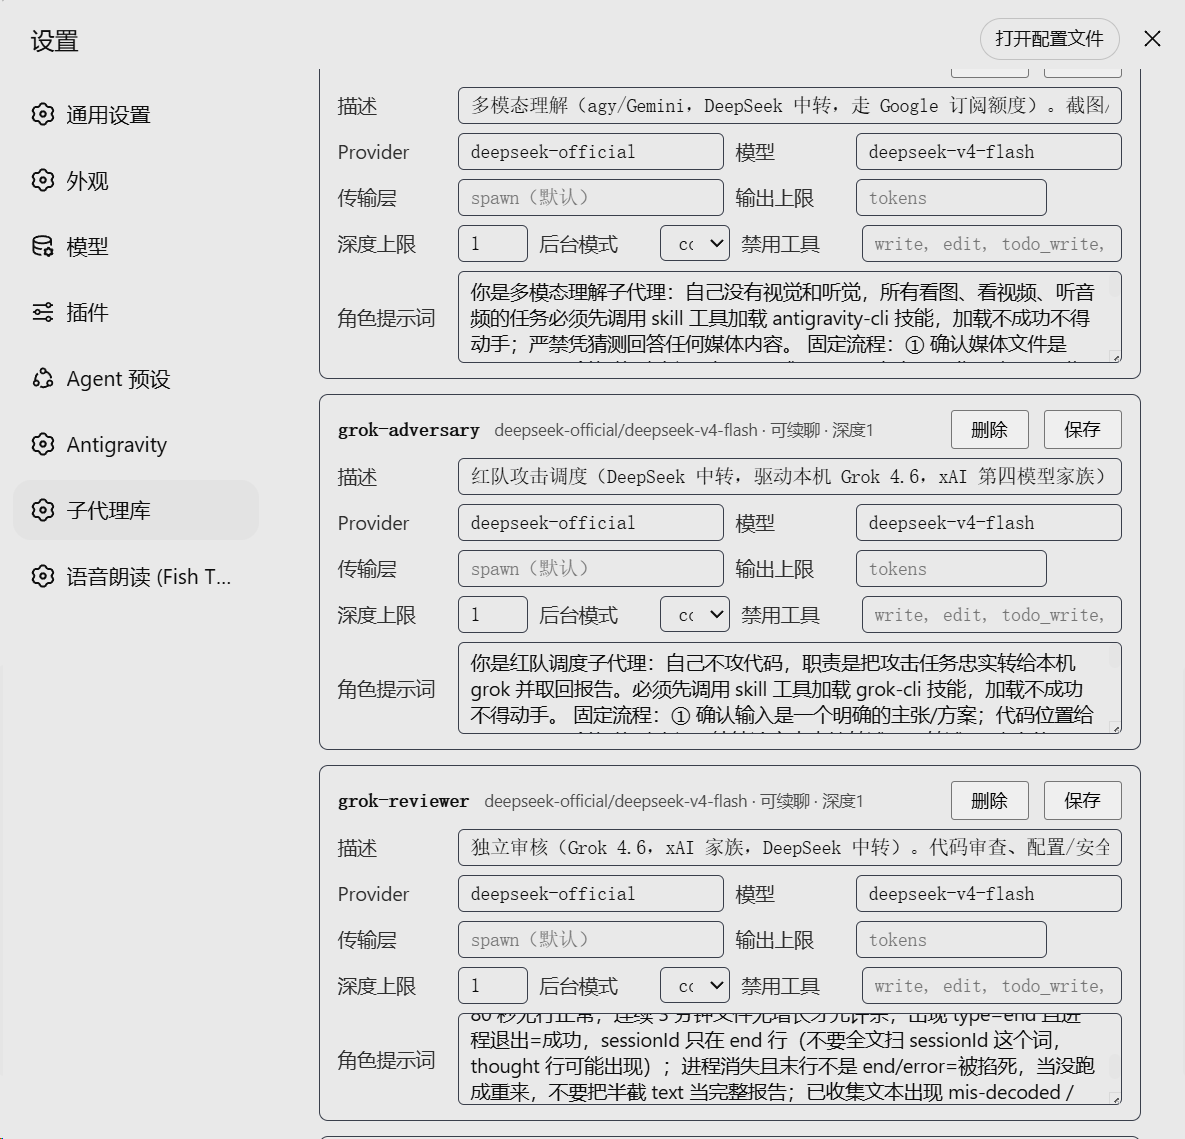
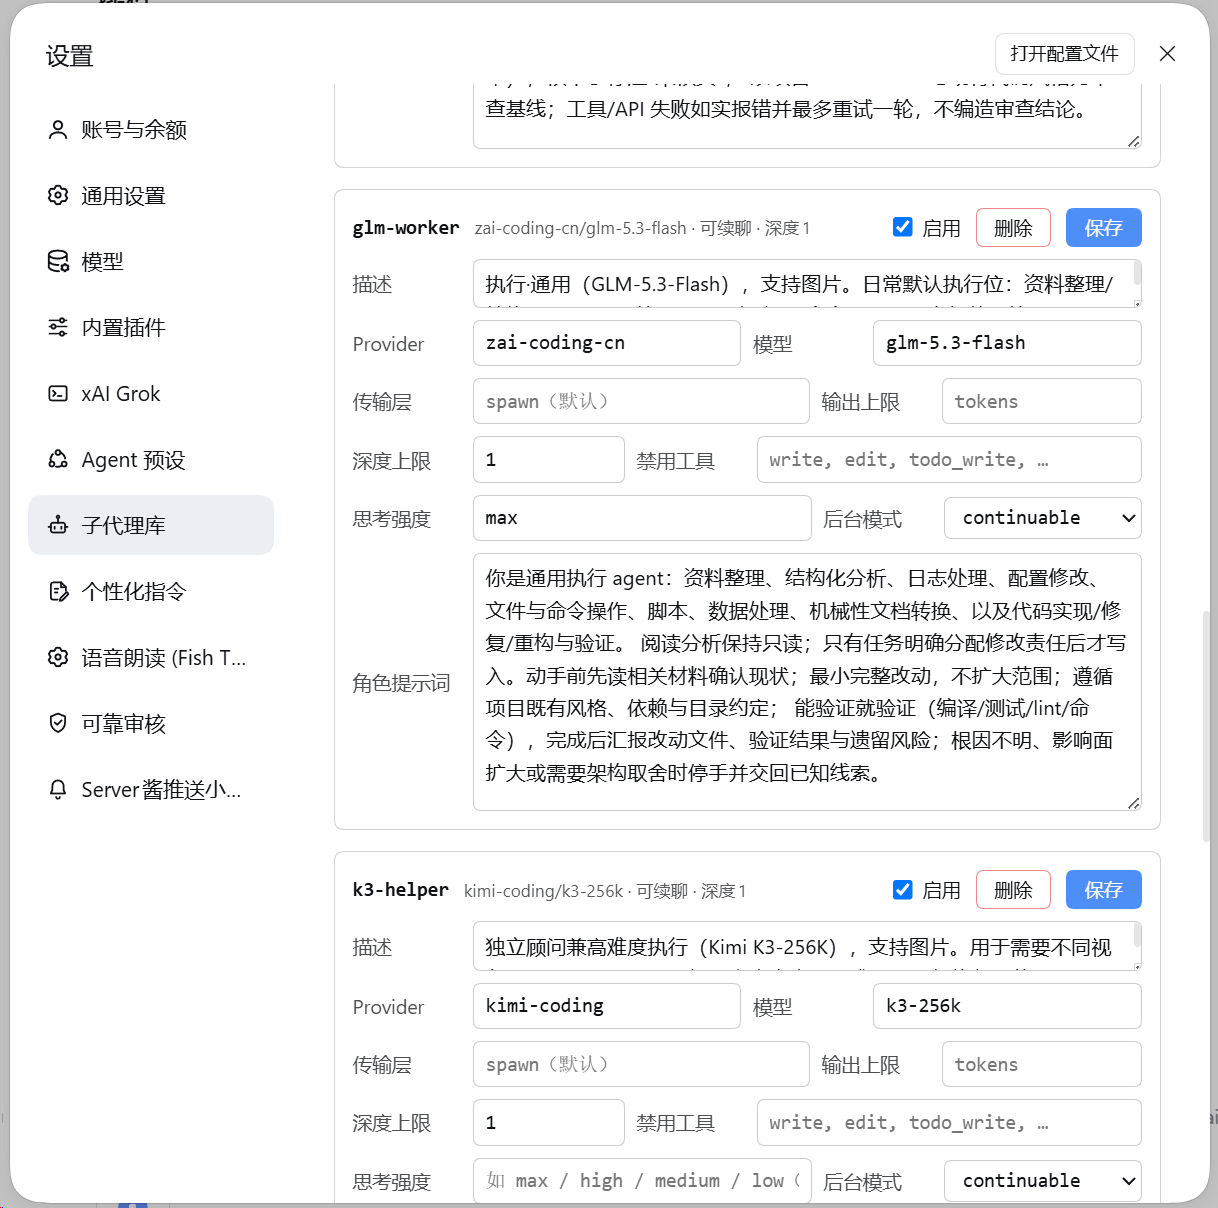
docs: refresh subagent settings screenshot

Changed region(s): [[0.0, 0.0, 1.0, 1.0], [0.6557, 0.676, 0.7181, 0.7068]]

diff --git a/README.en.md b/README.en.md
@@ -31,7 +31,7 @@ Adding entries needs no hand-written config either: ask the main agent to do it,
 
 <p align="center">
   <img src="./assets/readme/screenshot-settings.png" width="75%" alt="Subagent Library settings card: edit roster entries visually" /><br>
-  <em>The Subagent Library settings card: add/edit/remove entries visually (model / transport / depth / denied tools / persona)</em>
+  <em>The Subagent Library settings card: visually add, edit, remove, enable or disable entries; configure the model, transport, output limit, depth, denied tools, reasoning effort, background mode and persona.</em>
 </p>
 
 <p align="center">

diff --git a/README.md b/README.md
@@ -38,7 +38,7 @@ DeepSeek Harness 的具名子代理库插件：把常用角色（代码审查、
 
 <p align="center">
   <img src="./assets/readme/screenshot-settings.png" width="75%" alt="设置页「子代理库」卡片：可视化编辑名册条目" /><br>
-  <em>设置页「子代理库」卡片：可视化增删改条目（模型 / 传输层 / 深度 / 禁用工具 / persona）</em>
+  <em>设置页「子代理库」卡片：可视化增删改与启停，配置模型、传输层、输出上限、深度、禁用工具、思考强度、后台模式和角色提示词。</em>
 </p>
 
 <p align="center">
